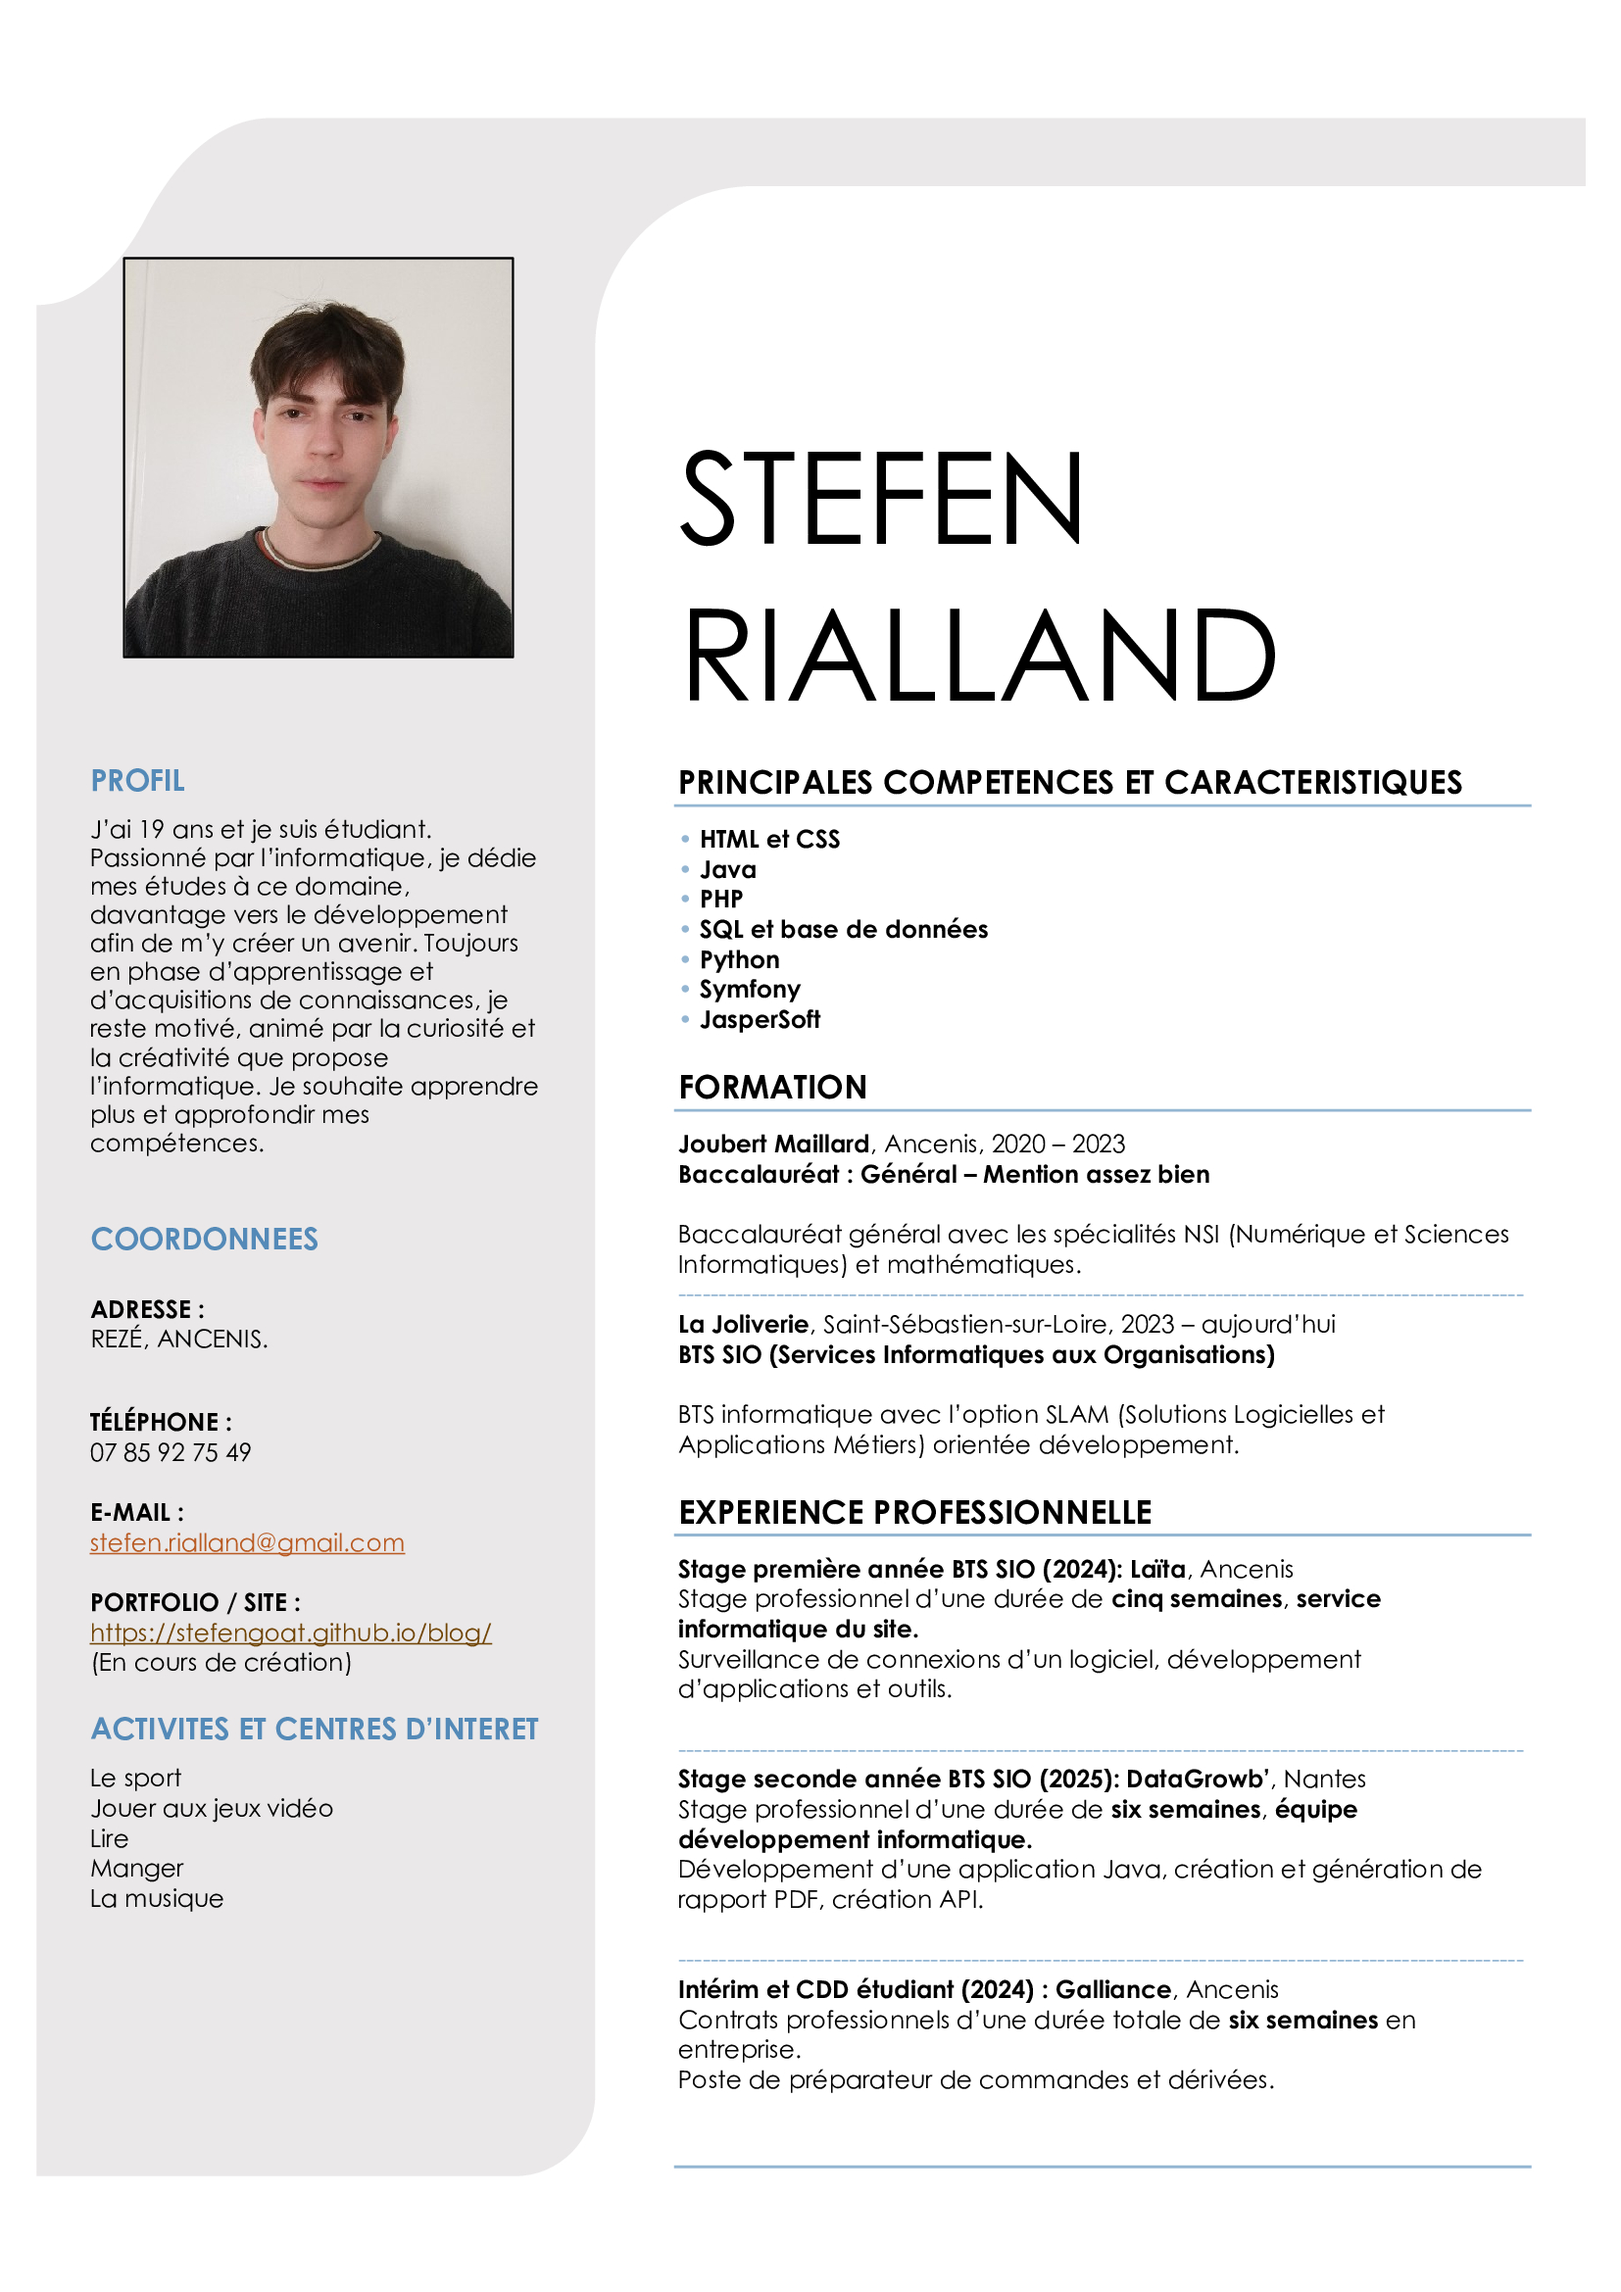
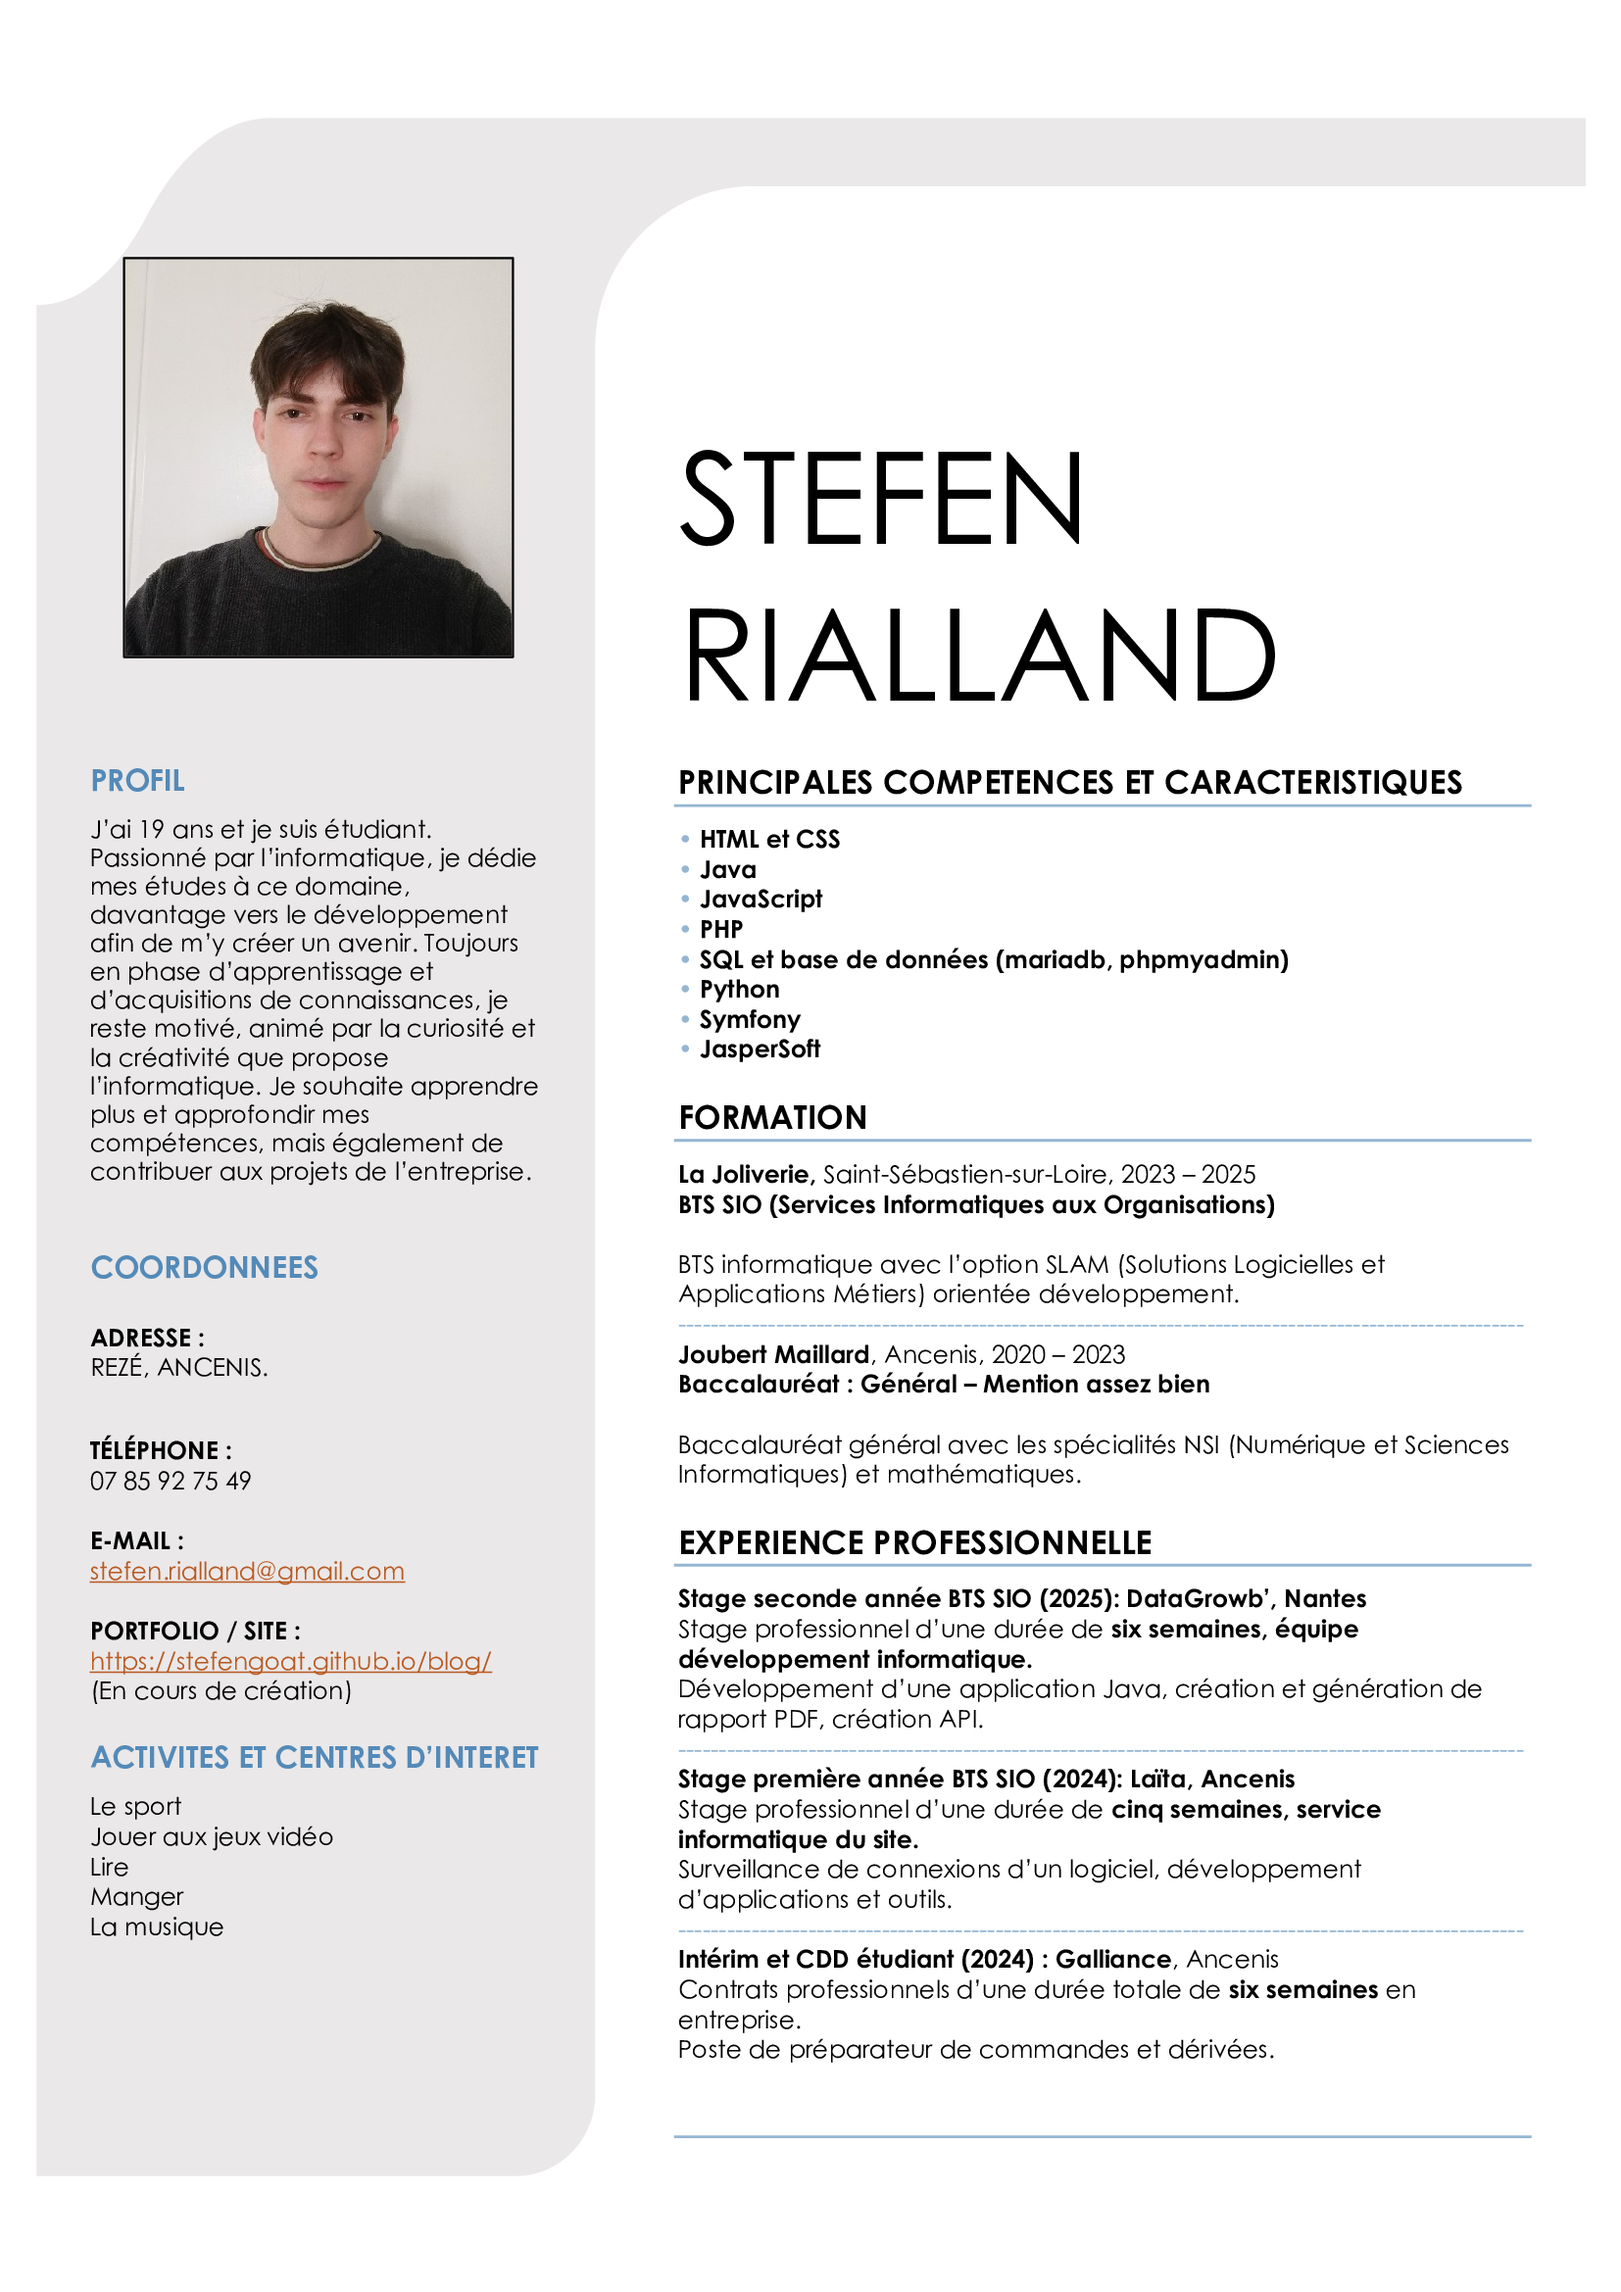
Travail terminé

Changed region(s): [[0.4008, 0.3745, 0.925, 0.9363], [0.0617, 0.4994, 0.3392, 0.8427]]

diff --git a/stage.html b/stage.html
@@ -50,7 +50,7 @@
                 </div>
 
                 <div class="bouton-telecharger-rapport1">
-                    <a href="images/RapportStage_Stage1.pdf" download="RapportStage_Stage1.pdf">Télécharger Rapport</a>
+                    <a href="stage/RapportStage_Stage1.pdf" download="RapportStage_Stage1.pdf">Télécharger Rapport</a>
                 </div>
             </div>
             <div class="droite">
@@ -70,7 +70,7 @@
                 </div>
 
                 <div class="bouton-telecharger-rapport2">
-                    <a href="images/RapportStage_Stage2.pdf" download="RapportStage_Stage2.pdf">Télécharger Rapport</a>
+                    <a href="stage/RapportStage_Stage2.pdf" download="RapportStage_Stage2.pdf">Télécharger Rapport</a>
                 </div>
             </div>
         </div>
